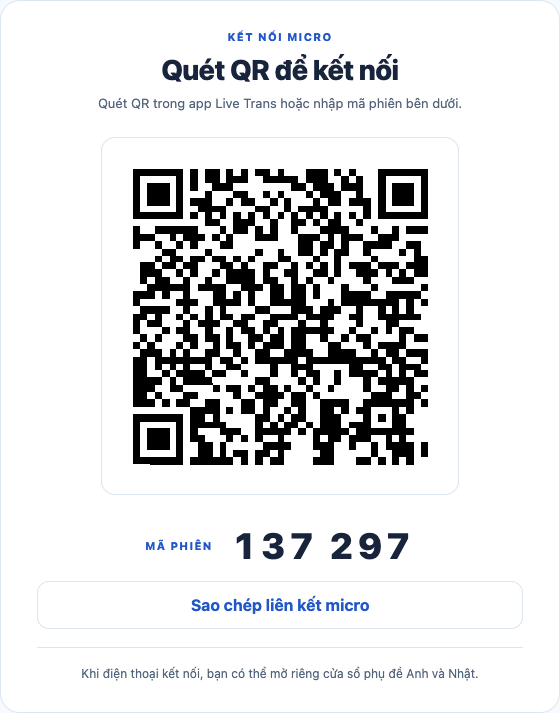
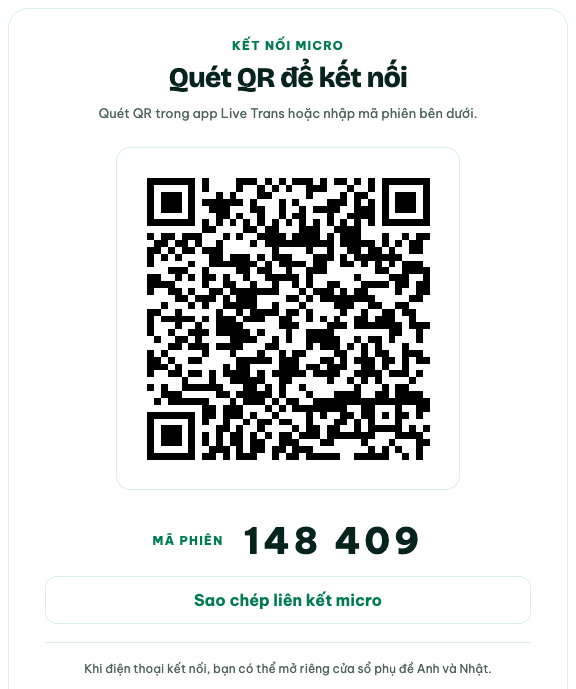
fix(web): address per-screen UI/UX review findings
- Mic button keeps a white label on the red recording state (was dark on red).
- Operator session view shows the Haposoft logo and a live status chip, and
  opens the caption preview when recording starts, so the operator can see
  whether the phone is listening without opening the controls dialog.
- Accent darkens to #007a50 so links and labels pass AA on white and mint.
- Small labels move from 11px to 12px; header brand link and guide
  disclosure reach 44px tap height; dialog scrim is stronger.
- Home hero drops excess vertical whitespace on desktop.
- Mic page folds the source panel when recording so the live preview stays
  in view; projection windows fade the top edge once captions scroll.
- Guide screenshots and copy match the event theme.

diff --git a/public/styles.css b/public/styles.css
@@ -1,5 +1,5 @@
 /* Colors and type follow the Haposoft 10-year event site (10years.haposoft.com) on a white background. */
-:root{color-scheme:light;--bg:#fff;--surface:#fff;--surface-soft:#f3fbf7;--border:#dcefe5;--text:#06241c;--muted:#4b6159;--accent:#008557;--accent-soft:#e8f7ef;--brand:#05c47c;--brand-hover:#04b070;--brand-ink:#06241c;--green:#176a4c;--green-soft:#eaf7f1;--red:#b42332;--red-soft:#fff0f1;--purple:#7046a5;font-family:"Be Vietnam Pro",-apple-system,BlinkMacSystemFont,"Segoe UI",sans-serif;--display:"Bricolage Grotesque","Be Vietnam Pro",-apple-system,sans-serif;font-synthesis:none}
+:root{color-scheme:light;--bg:#fff;--surface:#fff;--surface-soft:#f3fbf7;--border:#dcefe5;--text:#06241c;--muted:#4b6159;--accent:#007a50;--accent-soft:#e8f7ef;--brand:#05c47c;--brand-hover:#04b070;--brand-ink:#06241c;--green:#176a4c;--green-soft:#eaf7f1;--red:#b42332;--red-soft:#fff0f1;--purple:#7046a5;font-family:"Be Vietnam Pro",-apple-system,BlinkMacSystemFont,"Segoe UI",sans-serif;--display:"Bricolage Grotesque","Be Vietnam Pro",-apple-system,sans-serif;font-synthesis:none}
 *{box-sizing:border-box}
 html{scroll-behavior:smooth}
 body{margin:0;background:var(--bg);color:var(--text);font-size:16px;line-height:1.5}
@@ -18,7 +18,7 @@ img{max-width:100%}
 .skip-link:focus{top:12px}
 .shell{width:min(100% - 64px,1440px);margin:auto}
 .site-header{min-height:88px;display:flex;align-items:center;justify-content:space-between;gap:20px;border-bottom:1px solid var(--border)}
-.brand{display:inline-flex;align-items:center;gap:11px;text-decoration:none;font-size:22px;font-weight:800;letter-spacing:-.7px;white-space:nowrap}
+.brand{display:inline-flex;align-items:center;gap:11px;min-height:44px;text-decoration:none;font-size:22px;font-weight:800;letter-spacing:-.7px;white-space:nowrap}
 .brand-mark{display:grid;place-items:center;width:42px;height:42px;border-radius:13px;background:var(--accent);color:#fff;font-size:31px;font-weight:600;line-height:1;letter-spacing:-6px;padding-right:5px}
 .brand-dot{color:var(--accent)}
 .header-nav{display:flex;align-items:center;gap:16px}
@@ -26,17 +26,17 @@ img{max-width:100%}
 .header-link:hover{background:var(--accent-soft);color:var(--accent)}
 .language-pill{display:inline-flex;align-items:center;white-space:nowrap;border:1px solid var(--border);background:var(--surface);padding:8px 13px;border-radius:100px;color:var(--muted);font-size:12px;font-weight:800;letter-spacing:.3px}
 .language-pill span{color:var(--accent);padding:0 7px}
-.eyebrow{color:var(--accent);font-size:11px;font-weight:800;letter-spacing:1.3px}
+.eyebrow{color:var(--accent);font-size:12px;font-weight:800;letter-spacing:1.3px}
 .helper,.field-hint{color:var(--muted);font-size:13px;line-height:1.5}
 .notice{margin:20px 0 0;padding:14px 17px;border:1px solid #f3c6cc;border-radius:14px;background:var(--red-soft);color:#8d1d2b;font-size:14px;overflow-wrap:anywhere}
-.welcome{min-height:calc(100dvh - 155px);display:grid;grid-template-columns:minmax(0,.86fr) minmax(0,1.14fr);align-items:center;gap:clamp(40px,5vw,100px);padding:72px 0 88px}
+.welcome{min-height:min(calc(100dvh - 155px),720px);display:grid;grid-template-columns:minmax(0,.86fr) minmax(0,1.14fr);align-items:center;gap:clamp(40px,5vw,100px);padding:48px 0 56px}
 .hero-copy{align-self:center}
 .hero-copy h1{margin:22px 0;font-size:clamp(44px,4.7vw,76px);font-weight:800;letter-spacing:-.055em}
 .hero-copy h1 span{color:var(--accent)}
 .hero-description{max-width:520px;color:var(--muted);font-size:18px;line-height:1.65}
 .hero-steps{display:flex;flex-wrap:wrap;gap:14px 18px;margin-top:33px}
 .hero-steps span{display:inline-flex;align-items:center;gap:8px;white-space:nowrap;color:var(--muted);font-size:13px;font-weight:650}
-.hero-steps b{display:grid;place-items:center;width:23px;height:23px;border-radius:50%;background:var(--accent-soft);color:var(--accent);font-size:11px}
+.hero-steps b{display:grid;place-items:center;width:23px;height:23px;border-radius:50%;background:var(--accent-soft);color:var(--accent);font-size:12px}
 .welcome-actions{display:grid;grid-template-columns:repeat(2,minmax(0,1fr));align-items:stretch;gap:16px}
 .action-card{position:relative;min-width:0;padding:29px;border:1px solid var(--border);border-radius:20px;background:var(--surface)}
 .action-card.create-form{border-color:#d1d5db}
@@ -80,14 +80,14 @@ input:focus,select:focus{border-color:var(--accent);background:var(--surface)}
 .status[data-state="listening"]:before{background:var(--green)}
 .status[data-state="error"],.status[data-state="disconnected"],.status[data-state="closed"]{color:var(--red)}
 .status[data-state="error"]:before,.status[data-state="disconnected"]:before,.status[data-state="closed"]:before{background:var(--red)}
-.provider-badge{padding:4px 9px;border-radius:7px;background:var(--surface-soft);color:var(--muted);font-size:11px;font-weight:750}
+.provider-badge{padding:4px 9px;border-radius:7px;background:var(--surface-soft);color:var(--muted);font-size:12px;font-weight:750}
 .translation-grid{display:grid;grid-template-columns:repeat(2,minmax(0,1fr));gap:14px}
 .translation-card{min-height:316px;padding:25px;border:1px solid var(--border);border-radius:20px;background:var(--surface);overflow-wrap:anywhere}
 .translation-card.japanese{background:var(--surface);border-color:var(--border)}
 .card-label,.original-heading{display:flex;align-items:center;gap:10px}
 .card-label{margin-bottom:26px}
 .card-label h2,.original-heading h2{font-size:15px;font-weight:800}
-.language-mark{display:grid;place-items:center;flex:none;width:32px;height:32px;border-radius:9px;font-size:11px;font-weight:850}
+.language-mark{display:grid;place-items:center;flex:none;width:32px;height:32px;border-radius:9px;font-size:12px;font-weight:850}
 .en-mark{background:var(--accent-soft);color:var(--accent)}
 .ja-mark{background:#f1eafd;color:var(--purple)}
 .vi-mark{background:var(--green-soft);color:var(--green)}
@@ -127,7 +127,7 @@ input:focus,select:focus{border-color:var(--accent);background:var(--surface)}
 .mic-control{display:flex;flex-direction:column;align-items:center;margin:28px 0 15px;padding:28px 20px 23px;border:1px solid var(--border);border-radius:20px;background:var(--surface)}
 .mic-button{display:flex;flex-direction:column;align-items:center;justify-content:center;gap:10px;width:150px;height:150px;margin:26px auto 24px;border-radius:50%;background:var(--brand);color:var(--brand-ink);box-shadow:0 0 0 10px var(--accent-soft);font-size:15px}
 .mic-button:hover:not(:disabled){background:var(--brand-hover)}
-.mic-button[aria-pressed="true"]{background:var(--red);box-shadow:0 0 0 10px var(--red-soft)}
+.mic-button[aria-pressed="true"]{color:#fff;background:var(--red);box-shadow:0 0 0 10px var(--red-soft)}
 .mic-symbol{width:36px;height:36px}
 .mic-button[aria-pressed="true"] .mic-symbol{border:1px solid currentColor;border-radius:6px;padding:8px}
 .audio-level{display:flex;align-items:center;justify-content:center;gap:10px;color:var(--muted);font-size:12px;font-weight:700}
@@ -175,6 +175,14 @@ meter::-moz-meter-bar{background:var(--brand)}
 .has-session .session{min-height:100dvh;padding:25px 0 36px}
 .has-session .session-heading{align-items:center;margin-bottom:16px}
 .has-session .session-heading h1{font-size:22px;letter-spacing:-.02em;margin:0}
+.session-title-group{display:flex;align-items:center;flex-wrap:wrap;gap:10px 14px;min-width:0}
+.session-logo{display:block;height:18px;width:auto}
+.session-title-group .session-logo+h1{padding-left:14px;border-left:1px solid var(--border)}
+.session-live{min-height:32px;padding:5px 12px;border:1px solid var(--border);border-radius:100px;background:var(--surface-soft);font-size:13px}
+.session-live[data-state="listening"]{border-color:#b5e3c6;background:var(--green-soft)}
+.session-live[data-state="listening"]:before{animation:live-pulse 1.4s ease-in-out infinite}
+@keyframes live-pulse{50%{opacity:.35}}
+@media(prefers-reduced-motion:reduce){.session-live[data-state="listening"]:before{animation:none}}
 .has-session .session-layout{display:flex;flex-direction:column;gap:20px}
 .has-session .caption-area{width:100%;min-width:0}
 .has-session .translation-grid{grid-template-columns:repeat(2,minmax(0,1fr));grid-template-rows:minmax(0,1fr);gap:0;height:70dvh}
@@ -232,7 +240,7 @@ meter::-moz-meter-bar{background:var(--brand)}
 .guide-downloads{display:grid;gap:14px;margin:28px 0;padding:24px;border:1px solid var(--border);border-radius:18px;background:var(--surface)}
 .guide-download-actions{display:flex;align-items:center;flex-wrap:wrap;gap:10px}
 .guide-download{display:inline-flex;align-items:center;justify-content:center;min-height:48px;padding:12px 18px;border-radius:12px;text-decoration:none;font-weight:700}
-.guide-downloads summary{cursor:pointer;padding:8px 0;color:var(--muted);font-size:13px}
+.guide-downloads summary{cursor:pointer;min-height:44px;display:flex;align-items:center;padding:8px 0;color:var(--muted);font-size:13px}
 .guide-downloads details p{font-size:13px}
 .guide-image{margin:20px 0 0}
 .guide-image img{display:block;width:100%;height:auto;border:1px solid var(--border);border-radius:12px}
@@ -259,7 +267,7 @@ meter::-moz-meter-bar{background:var(--brand)}
 .is-waiting .phone-tip{margin-bottom:0}
 .exit-presentation{min-height:44px;font-size:13px;padding:10px 14px}
 .session-controls{width:min(480px,calc(100% - 32px));max-height:calc(100dvh - 32px);padding:24px;border:1px solid var(--border);border-radius:20px;background:var(--surface);color:var(--text);box-shadow:0 12px 40px rgba(17,24,39,.08);overflow-y:auto}
-.session-controls::backdrop{background:rgba(17,24,39,.32)}
+.session-controls::backdrop{background:rgba(6,36,28,.48)}
 .controls-heading{display:flex;align-items:center;justify-content:space-between;gap:16px;margin-bottom:16px}
 .controls-heading h2{font-size:22px}
 .controls-heading button{min-height:44px;padding:8px 14px}

diff --git a/public/guide.html b/public/guide.html
@@ -30,10 +30,10 @@
       </section>
       <ol class="guide-steps">
         <li><h2>Tạo phiên trên máy tính</h2><p>Mở trang chính và chọn <strong>Tạo phiên mới</strong>. Nếu đã có phiên, nhập mã 6 số để vào xem.</p><figure class="guide-image"><img src="guide-create-session.png" width="1280" height="720" alt="Trang chính với nút Tạo phiên mới và ô nhập mã để vào xem" loading="lazy"><figcaption>Chọn Tạo phiên mới trên máy tính.</figcaption></figure></li>
-        <li><h2>Kết nối điện thoại</h2><p>Mở app Live Trans, quét QR hoặc nhập mã phiên. Chọn <strong>Bắt đầu</strong> và cho phép dùng micro. Nếu không cài app, quét QR bằng Camera để mở micro trên trình duyệt.</p><figure class="guide-image guide-image-phone"><img src="guide-connect-phone.png" width="560" height="713" alt="Bảng kết nối micro trên web gồm mã QR và mã phiên 6 số" loading="lazy"><figcaption>Ảnh minh họa. Hãy quét QR hoặc nhập mã trong phiên của bạn.</figcaption></figure></li>
+        <li><h2>Kết nối điện thoại</h2><p>Mở app Live Trans, quét QR hoặc nhập mã phiên. Chọn <strong>Bắt đầu</strong> và cho phép dùng micro. Nếu không cài app, quét QR bằng Camera để mở micro trên trình duyệt.</p><figure class="guide-image guide-image-phone"><img src="guide-connect-phone.png" width="576" height="689" alt="Bảng kết nối micro trên web gồm mã QR và mã phiên 6 số" loading="lazy"><figcaption>Ảnh minh họa. Hãy quét QR hoặc nhập mã trong phiên của bạn.</figcaption></figure></li>
         <li><h2>Mở hai màn hình phụ đề</h2><p>Khi điện thoại kết nối, mở riêng cửa sổ <strong>English</strong> và <strong>日本語</strong>. Kéo mỗi cửa sổ sang một màn hình bên sân khấu, rồi mở <strong>Controls</strong> / <strong>操作</strong> ở góc dưới để bật toàn màn hình. Nếu trình duyệt chặn cửa sổ mới, cho phép cửa sổ bật lên hoặc mở liên kết trong tab mới. Nói tiếng Việt, ngắt nhẹ giữa các câu; phụ đề tự cập nhật và cuộn xuống.</p><figure class="guide-image"><img src="guide-project-captions.png" width="1280" height="720" alt="Trang điều khiển có hai nút mở riêng cửa sổ phụ đề tiếng Anh và tiếng Nhật" loading="lazy"><figcaption>Mở từng cửa sổ và đặt vào màn hình tương ứng.</figcaption></figure></li>
       </ol>
-      <div class="guide-notes"><h2>Khi đang sử dụng</h2><p>Mỗi cửa sổ hiển thị một ngôn ngữ, nền xám đậm và chữ trắng căn trái. Nhấn <strong>Esc</strong> để thoát toàn màn hình; có thể cuộn lại để đọc tối đa 30 câu gần nhất.</p><p>Chọn <strong>Dừng</strong> trên điện thoại để tạm ngừng thu. Trên trang chính, mở <strong>Điều khiển phiên</strong>: <strong>Rời phiên</strong> chỉ rời trên máy này; <strong>Kết thúc phiên cho mọi người</strong> ngắt micro và xóa lịch sử sau khi xác nhận.</p><p>Nếu điện thoại ngắt kết nối, trang chính hiện lại QR. Nếu cửa sổ phụ đề mất kết nối máy chủ, chọn kết nối lại trong cửa sổ đó. Kiểm tra mạng và quyền micro khi cần. Điện thoại dùng trình duyệt cần mở trang qua HTTPS.</p></div>
+      <div class="guide-notes"><h2>Khi đang sử dụng</h2><p>Mỗi cửa sổ hiển thị một ngôn ngữ, nền xanh rêu và chữ sáng căn trái. Nhấn <strong>Esc</strong> để thoát toàn màn hình; có thể cuộn lại để đọc tối đa 30 câu gần nhất.</p><p>Chọn <strong>Dừng</strong> trên điện thoại để tạm ngừng thu. Trên trang chính, mở <strong>Điều khiển phiên</strong>: <strong>Rời phiên</strong> chỉ rời trên máy này; <strong>Kết thúc phiên cho mọi người</strong> ngắt micro và xóa lịch sử sau khi xác nhận.</p><p>Nếu điện thoại ngắt kết nối, trang chính hiện lại QR. Nếu cửa sổ phụ đề mất kết nối máy chủ, chọn kết nối lại trong cửa sổ đó. Kiểm tra mạng và quyền micro khi cần. Điện thoại dùng trình duyệt cần mở trang qua HTTPS.</p></div>
       <a class="primary guide-start" href="./">Về trang chính</a>
     </main>
   </div>

diff --git a/public/presentation.js b/public/presentation.js
@@ -45,6 +45,7 @@ export function setupPresentation() {
       document.body.classList.toggle('has-mic', connected);
       document.body.classList.toggle('is-waiting', !connected);
       $('session-tools').hidden = connected;
+      $('session-live').hidden = !connected;
       document.querySelector('.caption-area').hidden = !connected;
       $('session-title').textContent = connected ? 'Màn hình trình chiếu' : 'Kết nối điện thoại';
       // Keep keyboard focus on a visible control when the waiting screen disappears.
@@ -52,8 +53,13 @@ export function setupPresentation() {
         (connected ? $('open-english') : $('session-menu')).focus();
       }
     },
-    status() {
-      $('controls-status').textContent = $('connection-status').textContent;
+    status(state) {
+      const text = $('connection-status').textContent;
+      $('controls-status').textContent = text;
+      $('session-live').textContent = text;
+      // Open the caption preview once each time recording starts, so the operator sees live text.
+      if (state === 'listening' && $('session-live').dataset.state !== 'listening') document.querySelector('.caption-preview').open = true;
+      $('session-live').dataset.state = state;
     },
   };
 }

diff --git a/public/index.html b/public/index.html
@@ -46,7 +46,11 @@
       </section>
       <section id="session" class="session" aria-labelledby="session-title" hidden>
         <div class="session-heading">
-          <h1 id="session-title" tabindex="-1">Kết nối điện thoại</h1>
+          <div class="session-title-group">
+            <img class="session-logo" src="haposoft-logo.svg" width="99" height="18" alt="Haposoft">
+            <h1 id="session-title" tabindex="-1">Kết nối điện thoại</h1>
+            <span id="session-live" class="status session-live" data-state="connecting" role="status" hidden></span>
+          </div>
           <div class="session-actions">
             <button id="session-menu" class="secondary" type="button" aria-haspopup="dialog" aria-controls="session-controls">Điều khiển phiên</button>
           </div>

diff --git a/public/display.js b/public/display.js
@@ -30,6 +30,10 @@ document.documentElement.lang = lang;
 document.title = `Live Trans · ${labels.title}`;
 $('language-title').textContent = labels.title;
 $('caption-scroll').setAttribute('aria-label', labels.captions);
+// Fade the top edge only once older lines scroll out, so the first line is never dimmed.
+$('caption-scroll').addEventListener('scroll', () => {
+  $('caption-scroll').classList.toggle('is-scrolled', $('caption-scroll').scrollTop > 4);
+}, { passive: true });
 $('reconnect').textContent = labels.reconnect;
 $('fullscreen').textContent = labels.full;
 $('controls-label').textContent = labels.controls;

diff --git a/public/microphone.js b/public/microphone.js
@@ -184,6 +184,7 @@ function onEvent(event) {
   } else if (event.type === 'ready' && phase === 'starting') {
     clearTimeout(startupTimer);
     phase = 'recording';
+    $('source-panel').open = false;
     capture.record();
     showStatus('listening');
     if (event.maxMinutes) limitTimer = setTimeout(() => halt(`Đã đủ ${event.maxMinutes} phút. Micro đã dừng; nhấn Bắt đầu nói để mở lượt thu tiếp theo.`, true, true), event.maxMinutes * 60000);

diff --git a/public/display.css b/public/display.css
@@ -18,6 +18,10 @@ body { margin: 0; }
   scrollbar-width: none;
 }
 .caption-scroll::-webkit-scrollbar { display: none; }
+.caption-scroll.is-scrolled {
+  -webkit-mask-image: linear-gradient(to bottom, transparent 0, #000 72px);
+  mask-image: linear-gradient(to bottom, transparent 0, #000 72px);
+}
 .captions {
   margin: 0; padding-bottom: var(--controls-space, 64px);
   font-size: clamp(28px, 4.8vw, 64px);

diff --git a/docs/system-architecture.md b/docs/system-architecture.md
@@ -51,7 +51,7 @@ Bricolage Grotesque và Be Vietnam Pro; static server hỗ trợ MIME PNG. Mỗi
 mở cửa sổ riêng cho từng ngôn ngữ. Điện thoại kết nối thì trang chính hiện
 nút mở English/日本語; ngắt kết nối thì hiện lại QR.
 `display.html?lang=en|ja#room=…&token=…` cùng `display.js`/`display.css` dùng
-viewer socket độc lập, phù hợp màn dọc: nền xám đậm, chữ trắng căn trái,
+viewer socket độc lập, phù hợp màn dọc: nền xanh rêu, chữ sáng căn trái,
 không logo/tiêu đề lớn, điều khiển thu gọn ở góc dưới. Mỗi cửa sổ giữ tối đa 30 câu, chỉ cuộn
 khi bản dịch thay đổi; có fullscreen và kết nối lại riêng. Không gọi AI thêm.
 Trang điều khiển và hai cửa sổ tính là ba viewer trong giới hạn năm viewer/phòng.

diff --git a/README.md b/README.md
@@ -5,7 +5,7 @@ trên web theo thời gian thực. Dùng cho hội nghị, sự kiện và các 
 khách nước ngoài theo dõi nội dung người dẫn chương trình đang nói.
 
 Trang điều khiển và app dùng giao diện sáng. Cửa sổ phụ đề sân khấu dùng nền
-xám đậm, chữ trắng căn trái, không logo/tiêu đề lớn để tập trung đọc nội dung.
+xanh rêu theo màu sự kiện Haposoft 10 năm, chữ sáng căn trái, không logo/tiêu đề lớn để tập trung đọc nội dung.
 Không cần GPU hay cài phần mềm trên máy tính trình chiếu.
 
 - **Mở web:** [live.hapo.work](https://live.hapo.work/)
